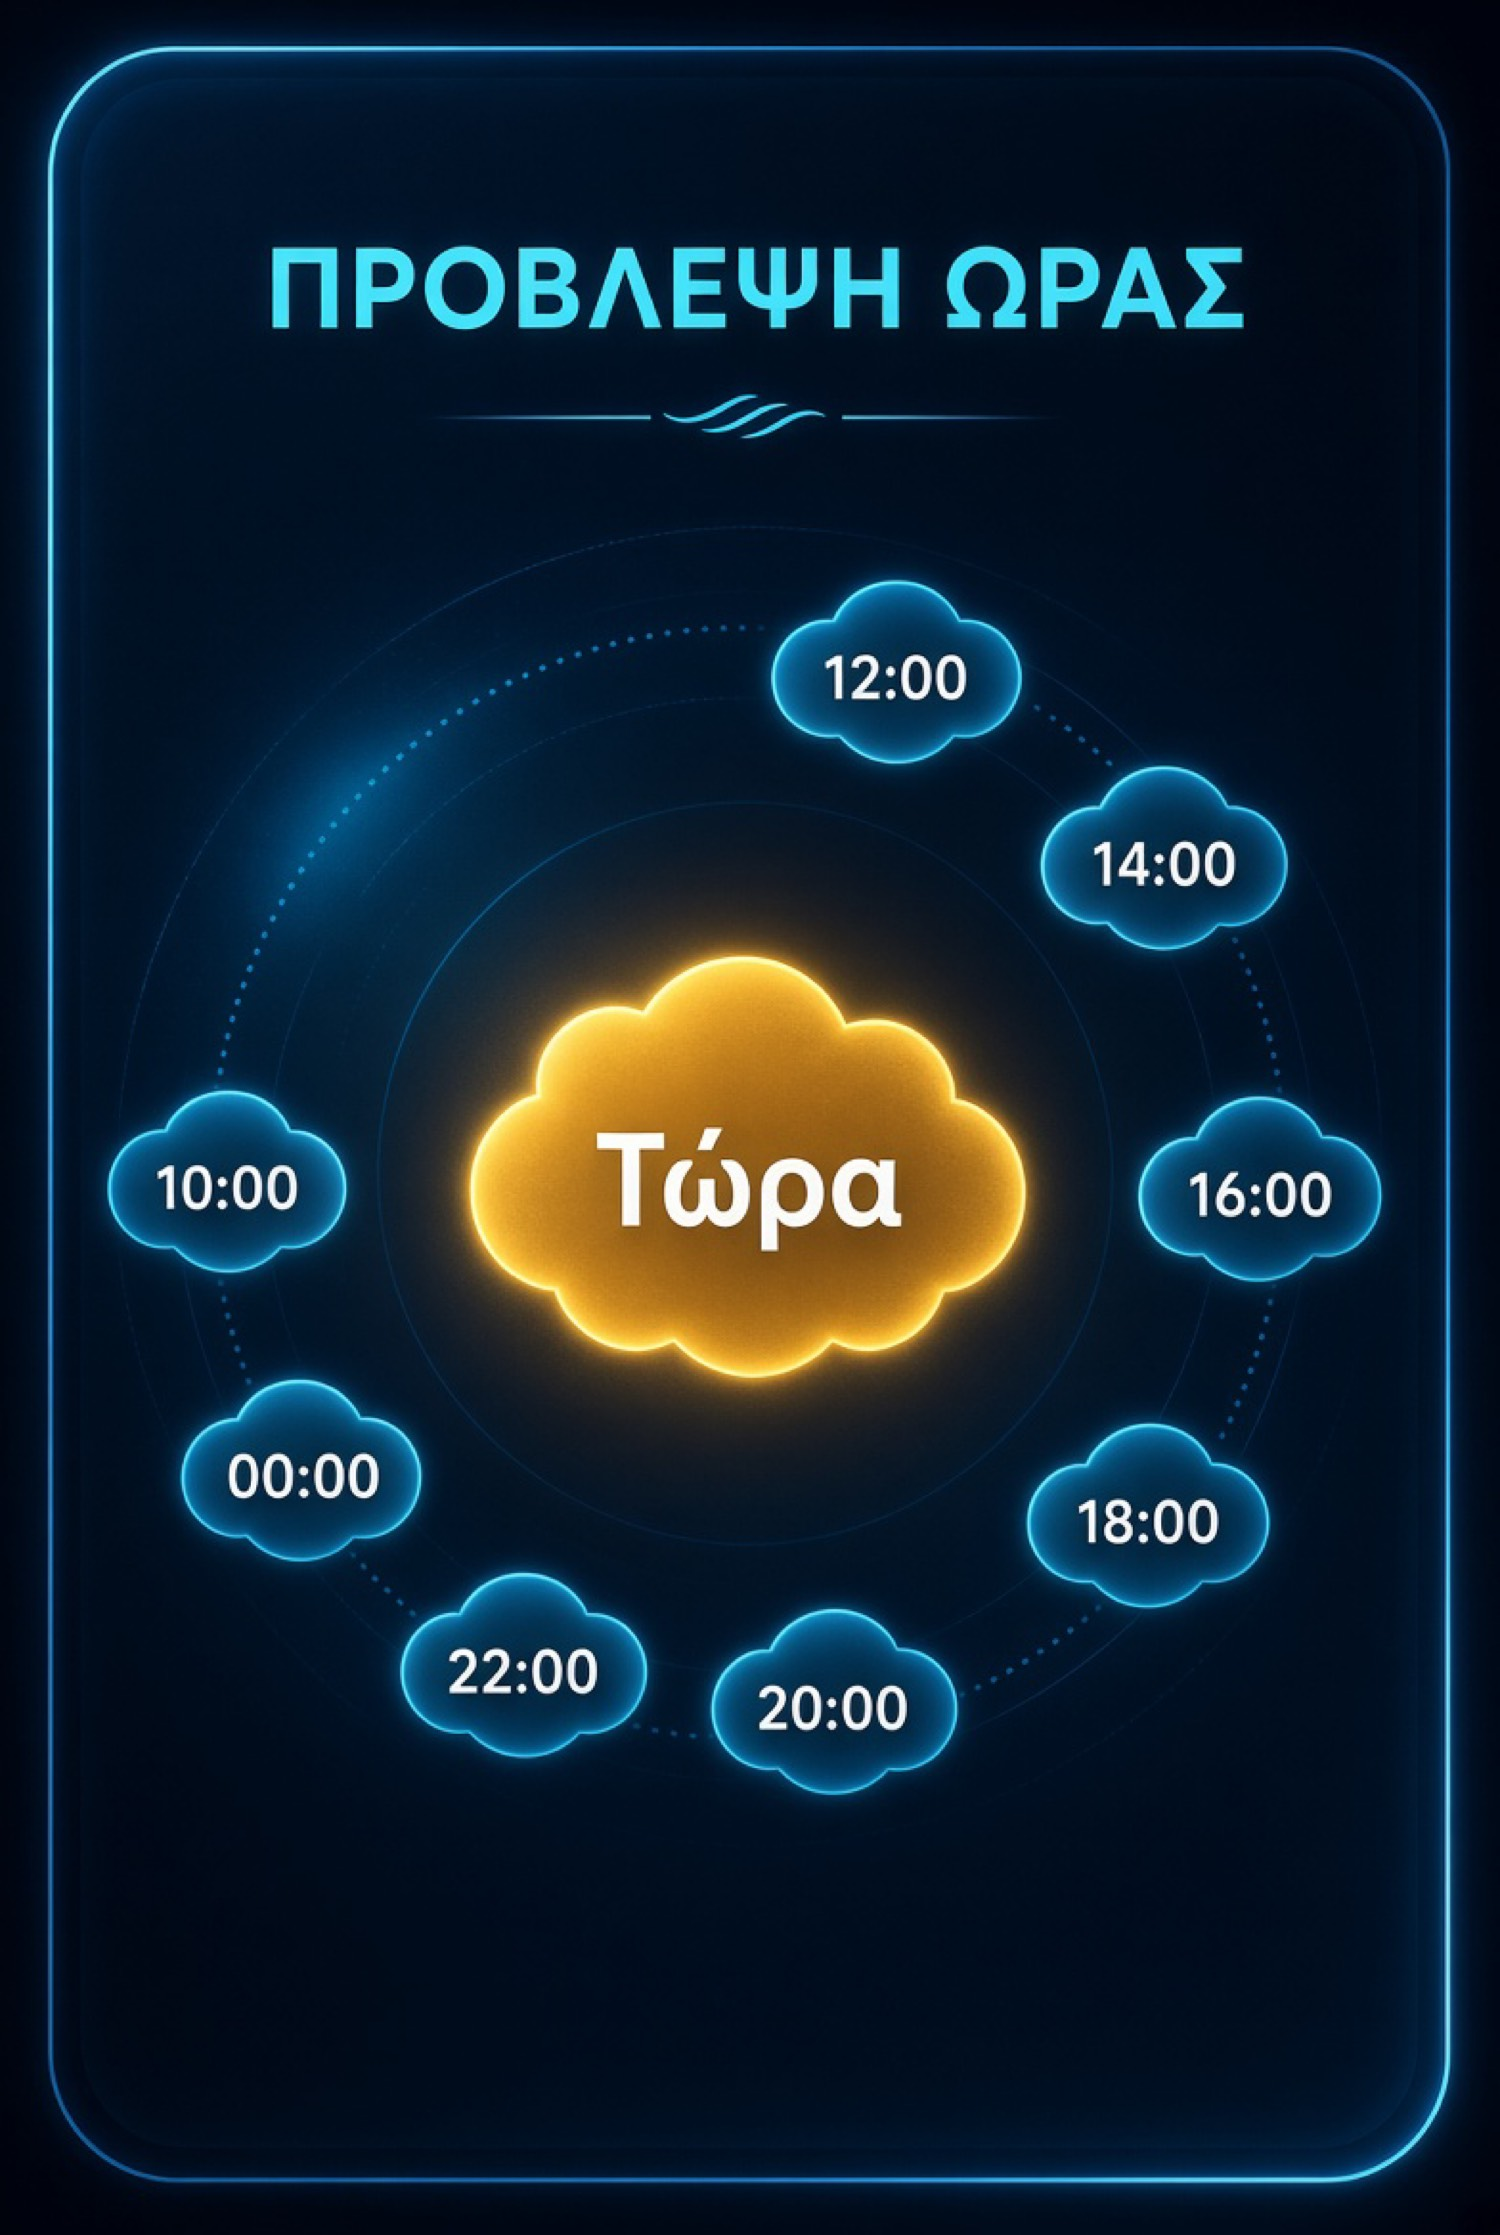
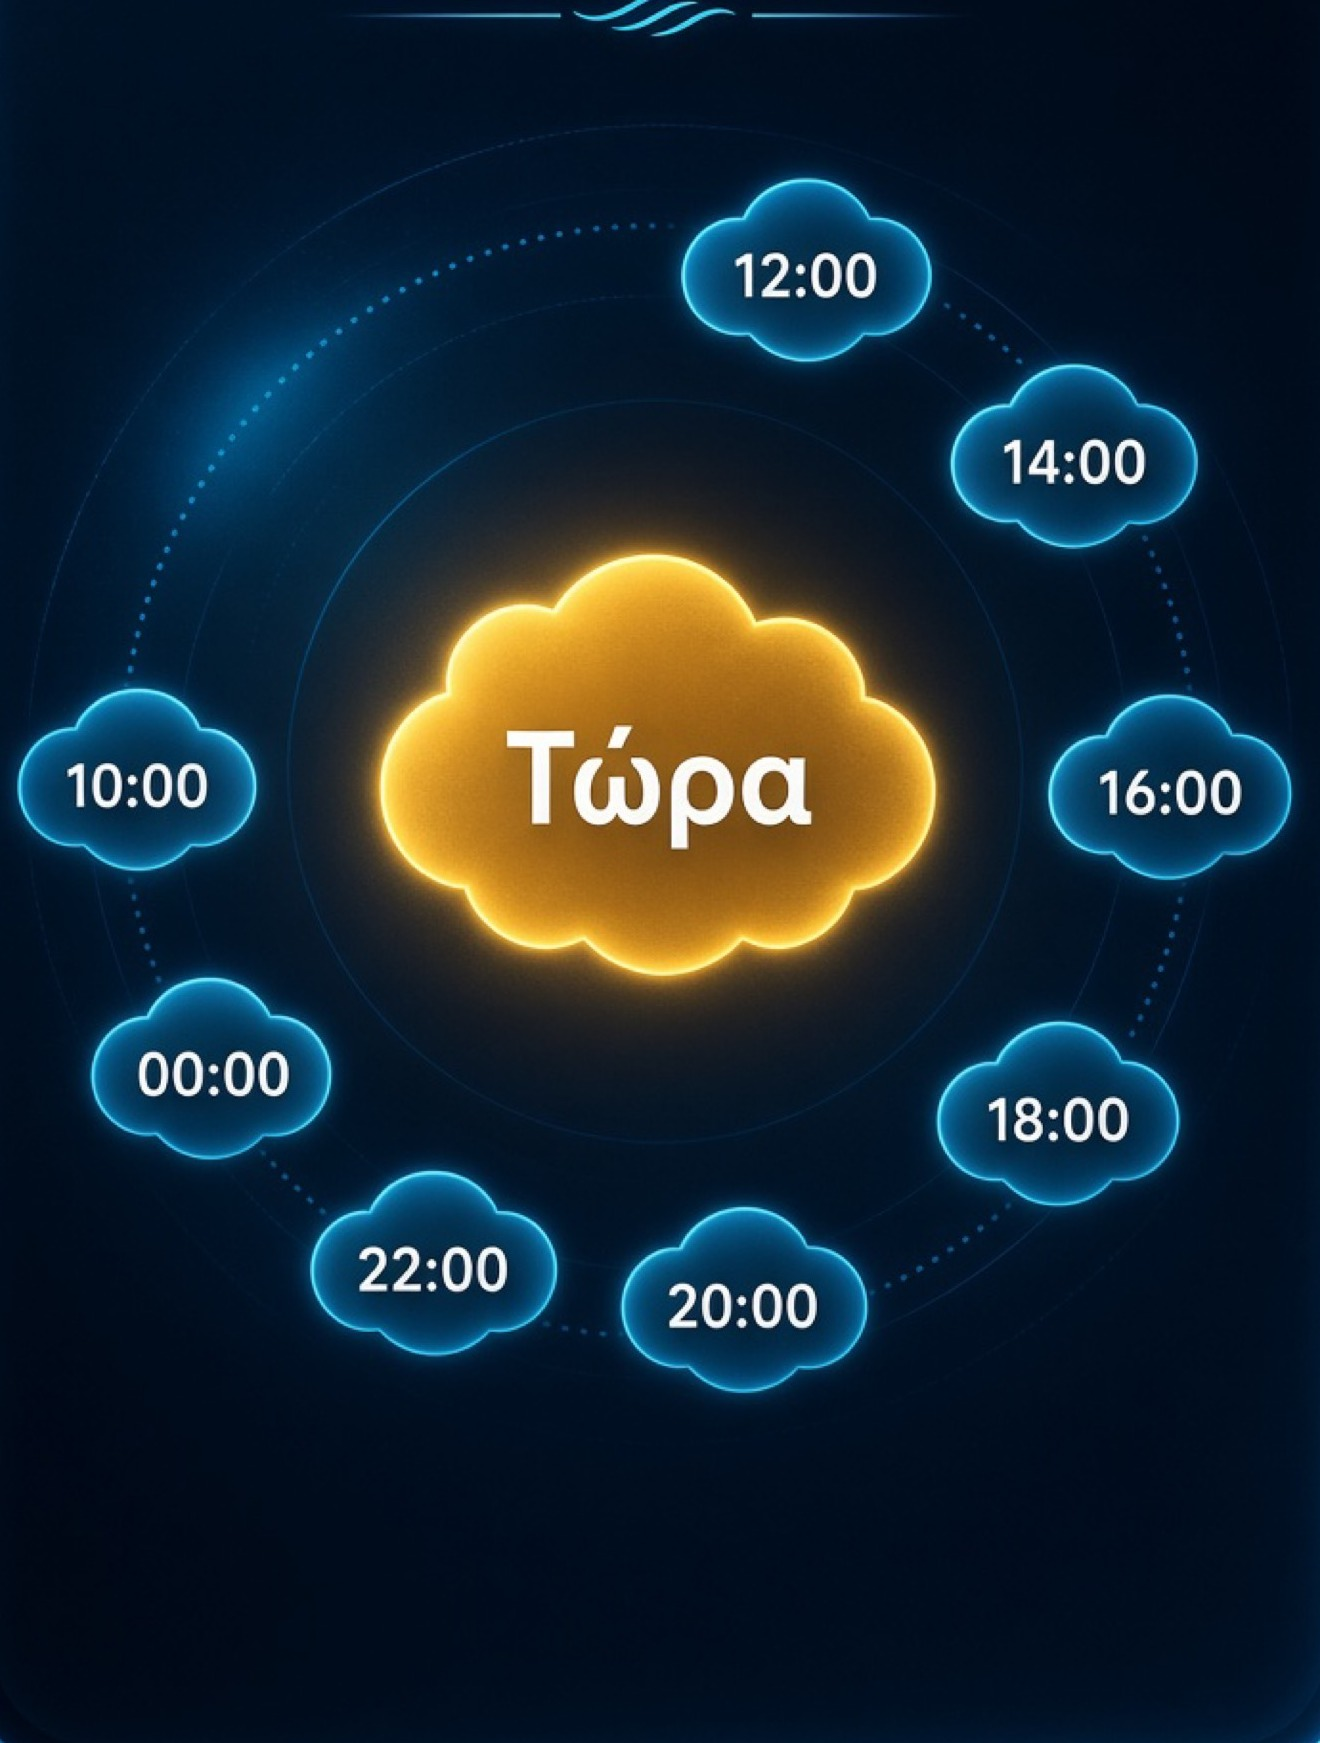
Add files via upload

diff --git a/style.css b/style.css
@@ -3271,7 +3271,7 @@ button.best-chip.gold-hour[data-why="gold"] {
 #best-line .best-chip.gold-hour,
 button.best-chip.gold-hour,
 .best-chip.gold-hour[data-why="gold"] {
-  background-image: url("gold_hour_bg.png?v=182.0.0") !important;
+  background-image: url("gold_hour_bg.png?v=183.0.0") !important;
   background-size: 100% 100% !important;
   background-repeat: no-repeat !important;
   background-position: center !important;
@@ -5200,4 +5200,199 @@ button.best-chip.gold-hour,
   font-size: 12px !important;
   line-height: 1.45 !important;
   color: #7ad7ff !important;
+}
+
+
+/* ===== v183 PRECISION FIXES ===== */
+
+/* Hour: no double frame, cropped image (no baked title) */
+.hour-clock {
+  position: relative !important;
+  width: 100% !important;
+  max-width: 320px !important;
+  margin: 4px auto !important;
+  aspect-ratio: auto !important;
+  min-height: 0 !important;
+  height: auto !important;
+  overflow: visible !important;
+  background: none !important;
+  border: none !important;
+  box-shadow: none !important;
+  padding: 0 !important;
+}
+.hour-clock-bg {
+  width: 100% !important;
+  height: auto !important;
+  display: block !important;
+  border-radius: 12px !important;
+  pointer-events: none !important;
+  border: none !important;
+  box-shadow: none !important;
+}
+/* kill residual gold circle / old center styles */
+.hour-clock .hc-center,
+.hour-clock .hc-cloud {
+  display: none !important;
+}
+.hour-clock .hc-hit {
+  position: absolute !important;
+  z-index: 6 !important;
+  border: none !important;
+  background: transparent !important;
+  box-shadow: none !important;
+  padding: 0 !important;
+  cursor: pointer !important;
+  -webkit-tap-highlight-color: transparent !important;
+}
+.hour-clock .hc-hit.active {
+  box-shadow: none !important;
+  background: rgba(245,197,66,.08) !important;
+  border-radius: 50% !important;
+}
+/* positions for CROPPED image (title removed) — recalibrated */
+.hc-hit-center { left: 50% !important; top: 45% !important; width: 36% !important; height: 24% !important; transform: translate(-50%,-50%) !important; border-radius: 40% !important; }
+.hc-hit-12 { left: 50% !important; top: 8% !important; width: 20% !important; height: 12% !important; transform: translate(-50%,-50%) !important; }
+.hc-hit-14 { left: 80% !important; top: 20% !important; width: 20% !important; height: 12% !important; transform: translate(-50%,-50%) !important; }
+.hc-hit-16 { left: 90% !important; top: 45% !important; width: 20% !important; height: 12% !important; transform: translate(-50%,-50%) !important; }
+.hc-hit-18 { left: 80% !important; top: 72% !important; width: 20% !important; height: 12% !important; transform: translate(-50%,-50%) !important; }
+.hc-hit-20 { left: 50% !important; top: 88% !important; width: 20% !important; height: 12% !important; transform: translate(-50%,-50%) !important; }
+.hc-hit-22 { left: 26% !important; top: 80% !important; width: 20% !important; height: 12% !important; transform: translate(-50%,-50%) !important; }
+.hc-hit-00 { left: 12% !important; top: 48% !important; width: 20% !important; height: 12% !important; transform: translate(-50%,-50%) !important; }
+.hc-hit-10 { left: 18% !important; top: 20% !important; width: 20% !important; height: 12% !important; transform: translate(-50%,-50%) !important; }
+
+/* Gold Hour: size like other chips, no black box, time beside locked art */
+#best-line button.best-chip.gold-hour,
+button.best-chip.gold-hour,
+.best-chip.gold-hour {
+  background: transparent !important;
+  background-color: transparent !important;
+  background-image: none !important;
+  border: none !important;
+  box-shadow: none !important;
+  outline: none !important;
+  padding: 0 !important;
+  margin: 0 !important;
+  min-height: 0 !important;
+  height: auto !important;
+  border-radius: 0 !important;
+  display: inline-flex !important;
+  align-items: center !important;
+  gap: 6px !important;
+  vertical-align: middle !important;
+}
+.best-chip.gold-hour .gh-lock-img {
+  height: 34px !important;
+  width: auto !important;
+  max-height: 34px !important;
+  display: block !important;
+  object-fit: contain !important;
+  border: none !important;
+  background: transparent !important;
+  filter: drop-shadow(0 0 6px rgba(232,185,35,.45)) !important;
+}
+.best-chip.gold-hour .gh-txt { display: none !important; }
+.best-chip.gold-hour .gh-time {
+  color: #f5c542 !important;
+  font-weight: 700 !important;
+  font-size: 11px !important;
+  font-family: inherit !important;
+  background: none !important;
+  border: none !important;
+  padding: 0 !important;
+  margin: 0 !important;
+}
+
+/* Zone: full-width horizontal strip like best-hours */
+.zone-card,
+.zone-card-h,
+section.card.zone-card {
+  width: 100% !important;
+  max-width: 100% !important;
+  grid-column: 1 / -1 !important;
+}
+.row-score-act,
+.row:has(.zone-card) {
+  display: flex !important;
+  flex-wrap: wrap !important;
+}
+.zone-card .zone-body,
+.zone-card-h .zone-body {
+  display: flex !important;
+  flex-direction: row !important;
+  align-items: center !important;
+  gap: 14px !important;
+  min-height: 100px !important;
+  width: 100% !important;
+}
+.zone-map-wrap {
+  flex: 0 0 42% !important;
+  width: 42% !important;
+  height: 110px !important;
+  min-height: 110px !important;
+  position: relative !important;
+  border-radius: 12px !important;
+  overflow: hidden !important;
+  background: #061018 !important;
+  border: 1px solid rgba(53,200,255,.3) !important;
+}
+.zone-map, .zone-map-fill {
+  width: 100% !important;
+  height: 100% !important;
+  object-fit: contain !important;
+  object-position: center !important;
+  filter: brightness(1.25) contrast(1.1) drop-shadow(0 0 8px rgba(53,200,255,.5)) !important;
+}
+/* SINGLE pin only — CSS pin; hide if map already has marker via opacity on pseudo */
+.zone-pin, #zone-pin {
+  position: absolute !important;
+  left: 58% !important;
+  top: 42% !important;
+  width: 12px !important;
+  height: 12px !important;
+  background: #ff2a2a !important;
+  border: 2px solid #fff !important;
+  border-radius: 50% 50% 50% 0 !important;
+  transform: rotate(-45deg) !important;
+  box-shadow: 0 0 8px rgba(255,40,40,.9) !important;
+  z-index: 4 !important;
+  /* if double: user said double — hide map baked pin can't, so hide CSS when needed */
+}
+/* prevent second pin from ::after */
+.zone-pin::before, .zone-pin::after, #zone-pin::before, #zone-pin::after {
+  display: none !important;
+  content: none !important;
+}
+.zone-info {
+  flex: 1 1 50% !important;
+  min-width: 0 !important;
+}
+.zone-label {
+  font-size: 11px !important;
+  color: #8adfff !important;
+  margin-bottom: 4px !important;
+}
+.zone-place, #zone-place {
+  white-space: normal !important;
+  overflow: visible !important;
+  max-height: none !important;
+  font-size: 12px !important;
+  line-height: 1.5 !important;
+  color: #b8e8ff !important;
+}
+
+/* Pressure: stronger yellow glow + rolling red works via JS */
+#pressure-svg, .pressure-body svg {
+  overflow: visible !important;
+}
+#pressure-line, .pressure-line {
+  stroke: #f5c542 !important;
+  stroke-width: 2.6 !important;
+  filter: drop-shadow(0 0 4px rgba(245,197,66,.9)) drop-shadow(0 0 10px rgba(245,197,66,.55)) !important;
+}
+#pressure-area, .pressure-area {
+  fill: url(#pressureGrad) !important;
+  opacity: 0.45 !important;
+}
+#pressure-live {
+  filter: drop-shadow(0 0 4px rgba(255,40,40,.9)) !important;
 }

diff --git a/index.html b/index.html
@@ -8,9 +8,9 @@
   <meta name="apple-mobile-web-app-status-bar-style" content="black-translucent"/>
   <title>Fishing Dashboard — Κάλυμνος</title>
   <link rel="manifest" href="manifest.json"/>
-  <link rel="stylesheet" href="style.css?v=182.0.0"/>
+  <link rel="stylesheet" href="style.css?v=183.0.0"/>
   <script src="https://cdnjs.cloudflare.com/ajax/libs/three.js/r134/three.min.js" defer></script>
-  <script src="moon.js?v=182.0.0" defer></script>
+  <script src="moon.js?v=183.0.0" defer></script>
 </head>
 <body>
 <div class="app">
@@ -120,7 +120,7 @@
         <div class="sec-title"><i class="dot"></i> ΦΑΣΗ ΣΕΛΗΝΗΣ</div>
         <div class="moon-body">
           <div class="moon-disc moon-glow" id="moon-disc">
-            <img id="moon-img" class="moon-img" src="moon_full.png?v=182.0.0" alt="" width="100" height="100"/>
+            <img id="moon-img" class="moon-img" src="moon_full.png?v=183.0.0" alt="" width="100" height="100"/>
             <div class="moon-lit" id="moon-lit"></div>
             <div class="moon-shade" id="moon-shade"></div>
           </div>
@@ -131,12 +131,12 @@
         </div>
         <div class="moon-times">
           <div class="moon-time">
-            <img class="mt-crescent" src="crescent_rise.png?v=182.0.0" alt=""/>
+            <img class="mt-crescent" src="crescent_rise.png?v=183.0.0" alt=""/>
             <span class="mt-lab">↑ Ανατολή</span>
             <strong id="moon-rise" class="mt-hour">—</strong>
           </div>
           <div class="moon-time">
-            <img class="mt-crescent" src="crescent_set.png?v=182.0.0" alt=""/>
+            <img class="mt-crescent" src="crescent_set.png?v=183.0.0" alt=""/>
             <span class="mt-lab">↓ Δύση</span>
             <strong id="moon-set" class="mt-hour">—</strong>
           </div>
@@ -197,7 +197,7 @@
     <section class="card hour-pick-card" id="hour-pick-card">
                         <div class="sec-title"><i class="dot"></i> ΠΡΟΒΛΕΨΗ ΩΡΑΣ</div>
       <div class="hour-clock" id="hour-chips">
-        <img class="hour-clock-bg" src="hour_clock_bg.jpg?v=182.0.0" alt="Πρόβλεψη ώρας" draggable="false"/>
+        <img class="hour-clock-bg" src="hour_clock_bg.jpg?v=183.0.0" alt="Πρόβλεψη ώρας" draggable="false"/>
         <!-- hit areas: transparent, clock positions matching locked image -->
         <button type="button" class="hc-hit hc-hit-center active" data-hour="now" aria-label="Τώρα"></button>
         <button type="button" class="hc-hit hc-hit-12" data-hour="12" aria-label="12:00"></button>
@@ -218,9 +218,9 @@
         <div class="sec-title score-title"><i class="dot"></i> FISHING SCORE</div>
         <div class="score-wrap" id="score-wrap">
           <div class="score-dial" id="score-dial">
-            <img class="score-gauge-bg" src="score_gauge_bg.jpg?v=182.0.0" alt=""/>
+            <img class="score-gauge-bg" src="score_gauge_bg.jpg?v=183.0.0" alt=""/>
             <div class="score-pivot" id="score-pivot">
-              <img class="score-rod-live" id="score-rod-arm" src="score_rod_layer.png?v=182.0.0" alt=""/>
+              <img class="score-rod-live" id="score-rod-arm" src="score_rod_layer.png?v=183.0.0" alt=""/>
             </div>
           </div>
           <div class="score-meta" id="score-meta">
@@ -235,7 +235,7 @@
         <section class="card activity-card">
           <div class="sec-title"><i class="dot"></i> FISH ACTIVITY</div>
           <div class="activity-body">
-            <img class="activity-panel" id="activity-panel" src="activity_body.jpg?v=182.0.0" alt=""/>
+            <img class="activity-panel" id="activity-panel" src="activity_body.jpg?v=183.0.0" alt=""/>
             <div class="activity-bar-slot" id="activity-bar-wrap">
               <svg class="activity-svg" viewBox="0 0 200 14" preserveAspectRatio="none" aria-hidden="true">
                 <defs>
@@ -267,7 +267,7 @@
         <section class="card zone-card zone-card-h">
           <div class="sec-title"><i class="dot"></i> ΖΩΝΗ</div>
           <div class="zone-body">
-            <div class="zone-map-wrap"><img class="zone-map zone-map-fill" src="zone_map.png?v=182.0.0" alt="Χάρτης"/><div id="zone-pin" class="zone-pin" aria-hidden="true"></div></div>
+            <div class="zone-map-wrap"><img class="zone-map zone-map-fill" src="zone_map.png?v=183.0.0" alt="Χάρτης"/><div id="zone-pin" class="zone-pin" aria-hidden="true"></div></div>
             <div class="zone-info">
               <div class="zone-label">Βέλτιστη ζώνη</div>
               <div class="zone-place" id="zone-place">📍 Κάλυμνος · Νότια άκρη · 2–4μ</div>
@@ -371,8 +371,8 @@
     <button class="nav-item" data-nav="settings" type="button"><span>⚙</span>ΡΥΘΜΙΣΕΙΣ</button>
   </nav>
 </div>
-<script src="data.js?v=182.0.0"></script>
-<script src="app.js?v=182.0.0"></script>
+<script src="data.js?v=183.0.0"></script>
+<script src="app.js?v=183.0.0"></script>
 
 <div id="widget-modal" class="widget-modal" hidden>
   <div class="widget-modal-backdrop" id="widget-modal-backdrop"></div>

diff --git a/app.js b/app.js
@@ -715,7 +715,7 @@ function __notifyMoon(pct, phaseTxt) {
       img.style.setProperty("display", "block", "important");
       img.style.setProperty("visibility", "visible", "important");
       img.style.setProperty("opacity", "1", "important");
-      img.src = "moon_full.png?v=182.0.0";
+      img.src = "moon_full.png?v=183.0.0";
     }
     if (!shade) return;
     // reset any solid background from old CSS
@@ -985,7 +985,7 @@ function __notifyMoon(pct, phaseTxt) {
         '<span class="sep"> · </span>' +
         '<button type="button" class="best-chip" data-why="evening">ΑΠΟΓΕΥΜΑ ' + bh.evening + "</button>" +
         '<span class="sep"> · </span>' +
-        '<button type="button" class="best-chip gold-hour" data-why="gold"><img class="gh-lock-img" src="gold_hour_btn.jpg?v=182.0.0" alt="GOLD HOUR"/><span class="gh-time">' + (bh.gold || "") + "</span></button>" +
+        '<button type="button" class="best-chip gold-hour" data-why="gold"><img class="gh-lock-img" src="gold_hour_btn.png?v=183.0.0" alt="GOLD HOUR"/><span class="gh-time">' + (bh.gold || "") + "</span></button>" +
         '<span class="sep"> · </span>' +
         '<button type="button" class="best-chip" data-why="night">ΝΥΧΤΑ ' + bh.night + "</button>";
       if (bh.techniques && bh.techniques.length) {
@@ -1586,3 +1586,11 @@ function __notifyMoon(pct, phaseTxt) {
   setTimeout(run,1000);
   setTimeout(run,2500);
 })();
+
+  /* v183: keep red dots rolling with time */
+  setInterval(function () {
+    try {
+      if (typeof drawPressure === "function") drawPressure();
+      if (typeof drawTide === "function") drawTide();
+    } catch (e) {}
+  }, 60000);
